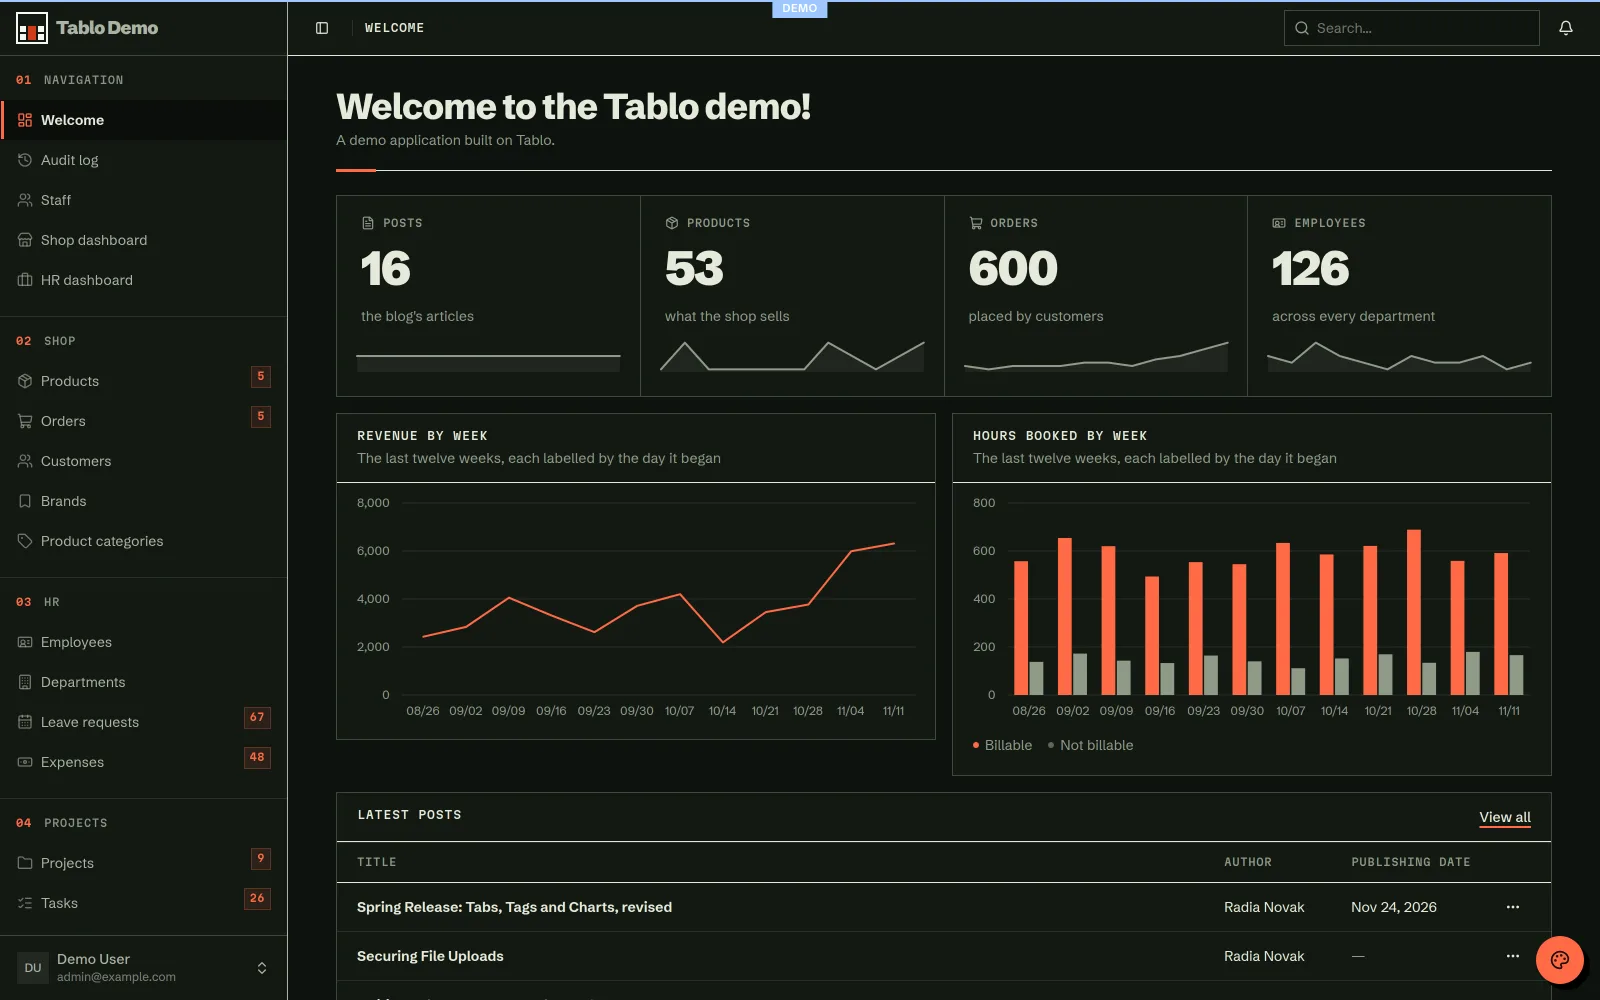
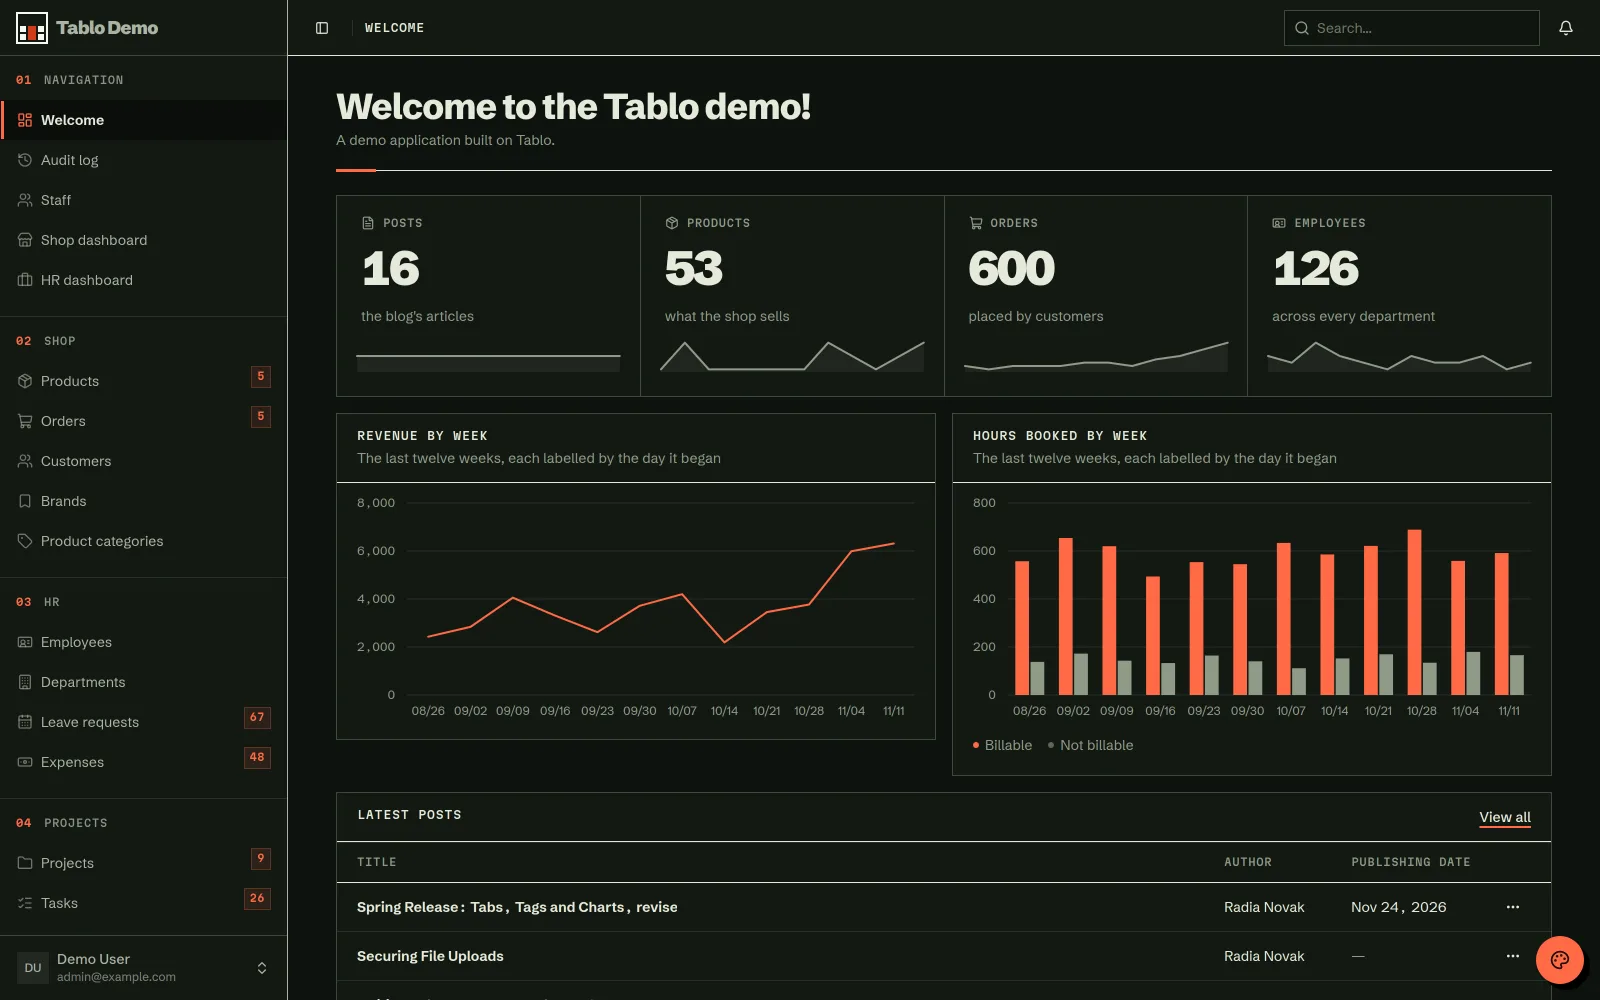
docs(site): retake the demo's shots without the environment ribbon (#1089)
* docs(site): retake the demo's shots without the environment ribbon

The demo no longer wears its Demo ribbon, so the landing page's shots are
retaken from the merged demo, and the post list's sort and author callouts
move to match the new capture.

* docs(site): show the demo's page shots in dark on a dark page

The five page shots get a dark counterpart, taken from the demo with its
tablo_theme cookie set to dark. site.js swaps each shot's source when the
page's scheme changes, so a dark page shows dark shots.

---------

diff --git a/site/index.html b/site/index.html
@@ -71,12 +71,12 @@
 <pre class="ld-code" aria-label="The post resource's declaration"><span><span class="k">impl</span> <span class="t">Resource</span> <span class="k">for</span> <span class="t">PostResource</span> {</span><span>    <span class="k">type</span> <span class="t">Model</span> = <span class="t">Post</span>;</span><span>    <span class="k">type</span> <span class="t">Form</span> = <span class="t">PostForm</span>;</span><span> </span><span>    <span class="k">fn</span> declare() -&gt; <span class="t">ResourceDef</span>&lt;<span class="t">Self</span>&gt; {</span><span>        <span class="k">let</span> col = <span class="t">Post</span>::columns();</span><span>        <span class="t">ResourceDef</span>::new()</span><span data-pin="create">            .policy(access::policy(<span class="t">Domain</span>::Blog))</span><span data-pin="widget">            .list_widget::&lt;<span class="t">PostStatusWidget</span>&gt;()</span><span>            .table(<span class="t">Table</span>::new((</span><span>                col.image.image(),</span><span>                col.title.text()</span><span data-pin="search">                    .searchable()</span><span data-pin="sort">                    .sortable(),</span><span data-pin="author">                <span class="t">RelationColumn</span>::of::&lt;<span class="t">AuthorResource</span>&gt;(</span><span data-pin="author">                    <span class="m">relation!</span>(<span class="t">Post</span>.author)),</span><span>                col.published_at.date().sortable(),</span><span>            ))</span><span data-pin="filters">            .filters((<span class="t">DateFilter</span>::new(</span><span data-pin="filters">                <span class="m">lens!</span>(<span class="t">Post</span>.published_at)).range(),)))</span><span data-pin="action">            .action::&lt;<span class="t">TogglePostPublish</span>&gt;()</span><span>    }</span><span>}</span></pre>
           <div class="pins-shot">
             <div class="shot">
-              <img src="assets/captures/posts.webp" width="1800" height="1213" alt="The demo's post list: a Create Post button, published and draft counts, a search box, column and filter menus, and a table of posts with image, title, author, status, tags and publishing date.">
+              <img src="assets/captures/posts.webp" data-dark-src="assets/captures/posts-dark.webp" width="1800" height="1213" alt="The demo's post list: a Create Post button, published and draft counts, a search box, column and filter menus, and a table of posts with image, title, author, status, tags and publishing date.">
               <span class="pin" data-pin="create" data-n="1" style="left:85.4%;top:9.78%;width:10.94%;height:4%"></span>
               <span class="pin" data-pin="widget" data-n="2" style="left:3.66%;top:18.78%;width:92.68%;height:17.35%"></span>
               <span class="pin" data-pin="search" data-n="3" style="left:5.26%;top:39.35%;width:21.95%;height:4%"></span>
-              <span class="pin" data-pin="sort" data-n="4" style="left:12.04%;top:44.8%;width:24.72%;height:4.44%"></span>
-              <span class="pin" data-pin="author" data-n="5" style="left:36.75%;top:49.24%;width:9.68%;height:5.44%"></span>
+              <span class="pin" data-pin="sort" data-n="4" style="left:12.04%;top:44.8%;width:23.97%;height:4.44%"></span>
+              <span class="pin" data-pin="author" data-n="5" style="left:36.01%;top:49.24%;width:9.68%;height:5.44%"></span>
               <span class="pin" data-pin="filters" data-n="6" style="left:86.28%;top:39.35%;width:8.46%;height:4%"></span>
               <span class="pin" data-pin="action" data-n="7" style="left:92%;top:49.96%;width:2.74%;height:4%"></span>
             </div>
@@ -177,7 +177,7 @@ struct PostForm { title: String, … }</code></td></tr>
         </div>
         <figure class="ld-capture">
           <figcaption><span>Two-factor setup</span><span>demo.tablo.y-l.fr/app/settings/two-factor</span></figcaption>
-          <img src="assets/captures/two-factor.webp" width="1100" height="733" loading="lazy" alt="The two-factor setup page: a QR code, the key spelled out, a field for the six-digit code, and Turn on.">
+          <img src="assets/captures/two-factor.webp" data-dark-src="assets/captures/two-factor-dark.webp" width="1100" height="733" loading="lazy" alt="The two-factor setup page: a QR code, the key spelled out, a field for the six-digit code, and Turn on.">
         </figure>
       </div>
     </div>
@@ -201,7 +201,7 @@ struct PostForm { title: String, … }</code></td></tr>
 <pre class="ld-code" aria-label="The post form"><span><span class="m">#[derive(tablo::RecordForm)]</span></span><span><span class="m">#[form(model = Post)]</span></span><span><span class="k">pub struct</span> <span class="t">PostForm</span> {</span><span>    <span class="k">pub</span> title: <span class="t">String</span>,</span><span>    <span class="k">pub</span> content: <span class="t">String</span>,</span><span>    <span class="m">#[form(relationship = AuthorResource)]</span></span><span>    <span class="k">pub</span> author_id: <span class="t">Option</span>&lt;<span class="t">u64</span>&gt;,</span><span>    <span class="m">#[form(relationship = TagResource)]</span></span><span>    <span class="k">pub</span> tags: <span class="t">Vec</span>&lt;<span class="t">u64</span>&gt;,</span><span>    <span class="m">#[form(file, optional)]</span></span><span>    <span class="k">pub</span> image: <span class="t">String</span>,</span><span>}</span></pre>
         <figure class="ld-capture crop">
           <figcaption><span>The same form, refusing an empty title</span><span>/admin/posts/16/edit</span></figcaption>
-          <img src="assets/captures/post-form.webp" width="1800" height="1213" loading="lazy" alt="The post edit form with a Title field marked in red and the message Title is required, a rich text editor, and author, category and tag pickers.">
+          <img src="assets/captures/post-form.webp" data-dark-src="assets/captures/post-form-dark.webp" width="1800" height="1213" loading="lazy" alt="The post edit form with a Title field marked in red and the message Title is required, a rich text editor, and author, category and tag pickers.">
         </figure>
       </div>
     </div>
@@ -222,7 +222,7 @@ struct PostForm { title: String, … }</code></td></tr>
       <div class="plate-art">
         <figure class="ld-capture">
           <figcaption><span>Three writes and a sign-in</span><span>/admin/audit-log</span></figcaption>
-          <img src="assets/captures/audit-log.webp" width="1800" height="862" loading="lazy" alt="The audit log: rows for a post's title change, a product's price change and a sign-in, each with the old value struck through beside the new one.">
+          <img src="assets/captures/audit-log.webp" data-dark-src="assets/captures/audit-log-dark.webp" width="1800" height="862" loading="lazy" alt="The audit log: rows for a post's title change, a product's price change and a sign-in, each with the old value struck through beside the new one.">
         </figure>
       </div>
     </div>
@@ -295,7 +295,7 @@ struct PostForm { title: String, … }</code></td></tr>
     <div class="ld-pad-sm"><h2 class="ld-h2" id="h-built">Open them. Sign in. Change anything.</h2></div>
     <div class="ld-cells ld-cells-3 works">
       <div class="ld-cell"><a class="work" href="https://demo.tablo.y-l.fr">
-        <div class="work-shot"><img src="assets/captures/demo-home.webp" width="1600" height="1000" loading="lazy" alt="The Tablo demo's landing page."></div>
+        <div class="work-shot"><img src="assets/captures/demo-home.webp" data-dark-src="assets/captures/demo-home-dark.webp" width="1600" height="1000" loading="lazy" alt="The Tablo demo's landing page."></div>
         <div class="work-body"><span class="ld-label"><span>Demo</span><span>4 roles, 3 panels</span></span><h3 class="ld-h3">A company's back office</h3><p class="ld-text">Shop, HR, projects and a blog. Sign in as the administrator, the shop or HR manager, or a viewer, and watch each role see its own part.</p><span class="work-go">demo.tablo.y-l.fr</span></div>
       </a></div>
       <div class="ld-cell"><a class="work" href="https://saas.tablo.y-l.fr">

diff --git a/site/assets/site.js b/site/assets/site.js
@@ -12,6 +12,10 @@ const reduced = matchMedia("(prefers-reduced-motion: reduce)").matches;
     const dark = isDark();
     toggle?.setAttribute("aria-label", dark ? "Switch to light pages" : "Switch to dark pages");
     document.querySelector('meta[name="theme-color"]')?.setAttribute("content", dark ? "#0d120e" : "#eceee2");
+    for (const img of document.querySelectorAll("img[data-dark-src]")) {
+      img.dataset.lightSrc ??= img.getAttribute("src");
+      img.setAttribute("src", dark ? img.dataset.darkSrc : img.dataset.lightSrc);
+    }
   };
   apply();
   systemDark.addEventListener("change", apply);
